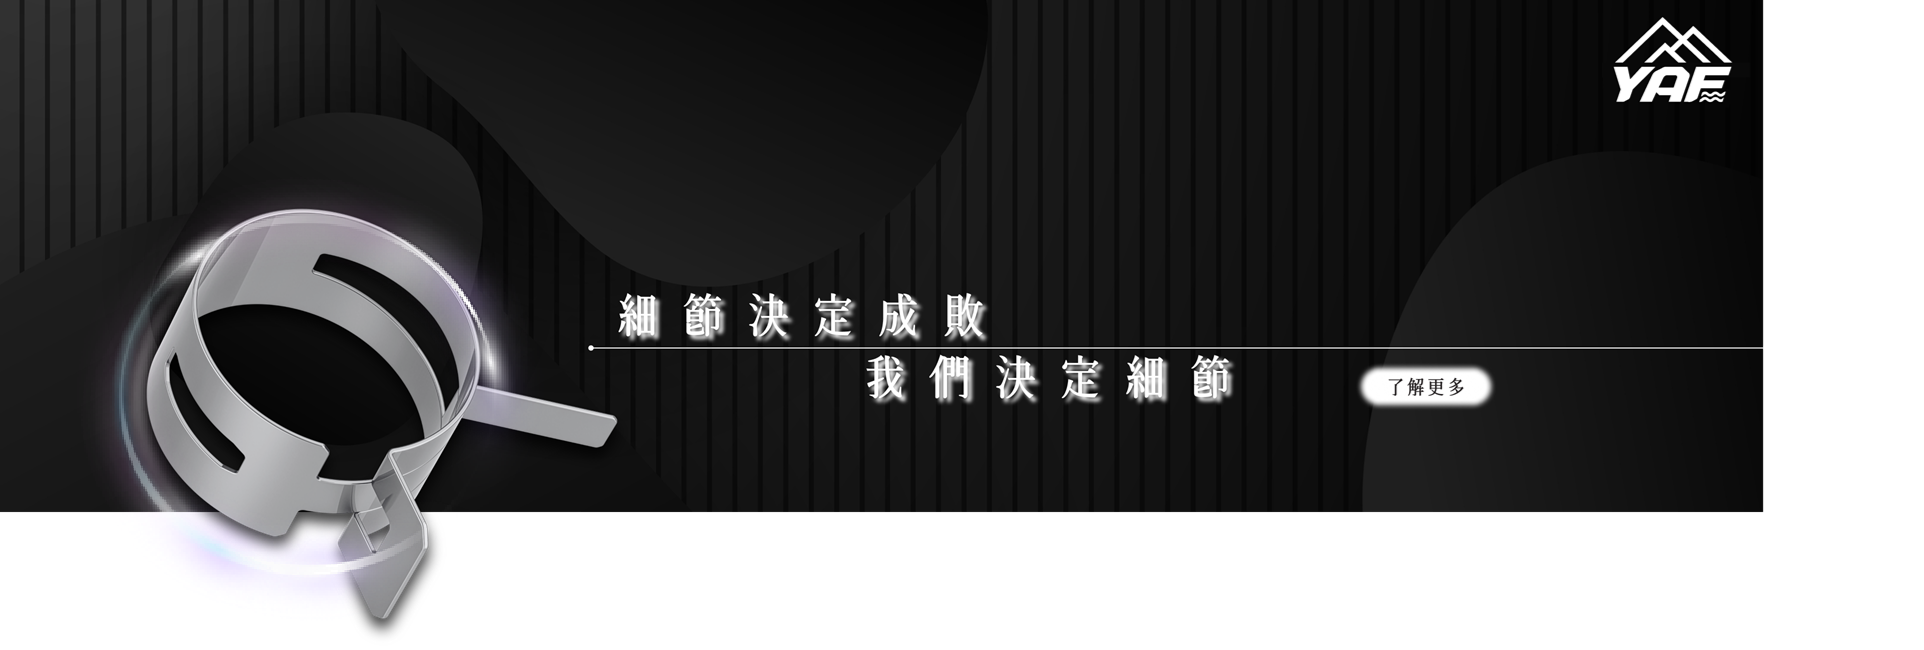
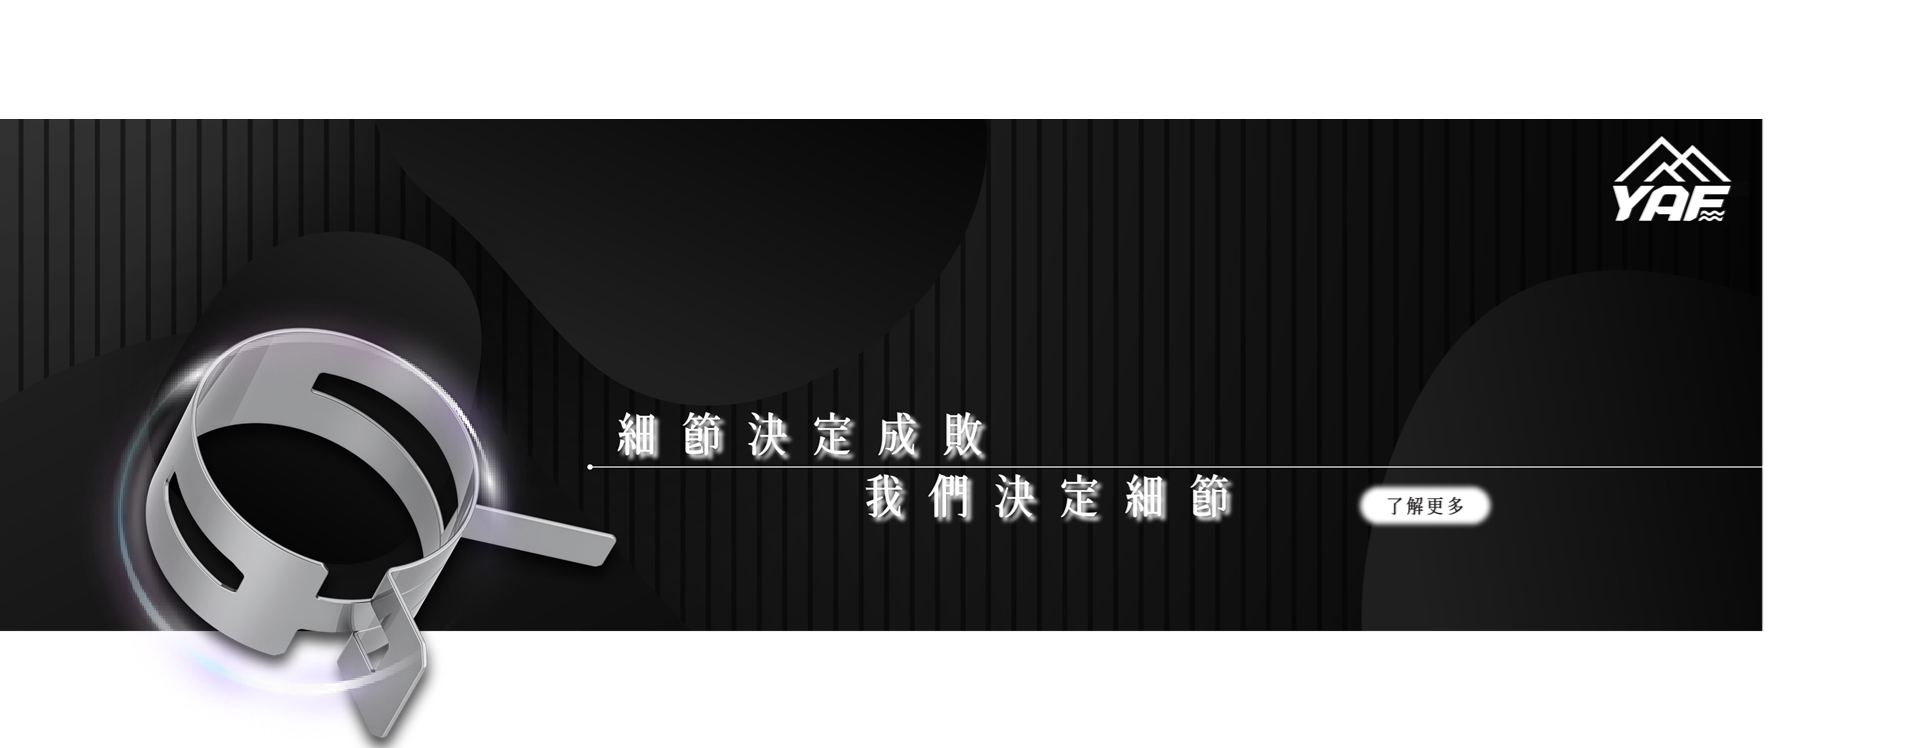
首頁動畫調整

diff --git a/pages/index.vue b/pages/index.vue
@@ -5,28 +5,27 @@
         :src="
           windowSize > 600
             ? '/image/' + lang + '/carousel1.png'
-            : '/image/' + lang + '/mobile-bg1.png'
+            : '/image/' + lang + '/mobile-carousel1.png'
         "
       ></v-carousel-item>
       <v-carousel-item
         :src="
           windowSize > 600
             ? '/image/' + lang + '/carousel2.png'
-            : '/image/' + lang + '/mobile-bg2.png'
+            : '/image/' + lang + '/mobile-carousel2.png'
         "
       ></v-carousel-item>
       <v-carousel-item
         :src="
           windowSize > 600
             ? '/image/' + lang + '/carousel3.png'
-            : '/image/' + lang + '/mobile-bg3.png'
+            : '/image/' + lang + '/mobile-carousel3.png'
         "
       ></v-carousel-item>
     </v-carousel>
     <v-img
       :src="'/image/' + lang + '/bg4.png'"
       width="100%"
-      :height="size2"
       contain
       position="center left"
       class="d-none d-sm-block"
@@ -117,7 +116,7 @@
               style="border-color: #ba9545"
             />
             <div class="sub-title">
-              {{ $t(service.desc1) }}<br />{{ $t(service.desc2) }}
+              {{ $t(service.desc1) }}<br/>{{ $t(service.desc2) }}
             </div>
           </div>
         </div>
@@ -171,25 +170,32 @@
       class="d-none d-sm-block"
       style="margin-bottom: 200px"
     />
-    <v-img
-      :src="'/image/' + lang + '/bg6.png'"
-      width="100%"
-      :height="size3"
-      class="d-none d-sm-block"
-    />
-    <v-img src="/image/mobile-bg6.png" width="100%" class="d-sm-none d-block" />
+    <div class="fill-width position-relative hover d-none d-sm-block">
+      <v-img
+        :src="'/image/' + lang + '/bg6.png'"
+        width="100%"
+        height="100%"
+      />
+      <v-img
+        :src="'/image/' + lang + '/hover-bg6.png'"
+        width="100%"
+        height="100%"
+        class="hover-img"
+      />
+    </div>
+    <v-img src="/image/mobile-bg6.png" width="100%" class="d-sm-none d-block"/>
   </div>
 </template>
 
 <script lang="ts">
-import { Component, Vue } from 'vue-property-decorator';
+import {Component, Vue} from 'vue-property-decorator';
 import {
   EXTRA_SIZE,
   LARGE_SIZE,
   MEDIUM_SIZE,
   SMALL_SIZE,
 } from '../utils/themes';
-import { Product, Service, products, services } from '../dummy';
+import {Product, Service, products, services} from '../dummy';
 
 @Component({
   name: 'home',
@@ -203,7 +209,6 @@ import { Product, Service, products, services } from '../dummy';
 })
 export default class home extends Vue {
   size1: number = 820;
-  size2: number = 750;
   size3: number = 1925;
   products: Array<Product> = products;
   services: Array<Service> = services;
@@ -216,32 +221,27 @@ export default class home extends Vue {
   handleResize() {
     if (window.innerWidth >= EXTRA_SIZE) {
       this.size1 = 820;
-      this.size2 = 750;
       this.size3 = 1925;
     } else if (
       window.innerWidth < EXTRA_SIZE &&
       window.innerWidth >= LARGE_SIZE
     ) {
       this.size1 = 720;
-      this.size2 = 750;
       this.size3 = 1620;
     } else if (
       window.innerWidth < LARGE_SIZE &&
       window.innerWidth >= MEDIUM_SIZE
     ) {
       this.size1 = 520;
-      this.size2 = 750;
       this.size3 = 1280;
     } else if (
       window.innerWidth < MEDIUM_SIZE &&
       window.innerWidth >= SMALL_SIZE
     ) {
       this.size1 = 460;
-      this.size2 = 750;
       this.size3 = 820;
     } else {
       this.size1 = 460;
-      this.size2 = 750;
       this.size3 = 820;
     }
     this.windowSize = window.innerWidth;
@@ -402,5 +402,19 @@ p {
 
 .app-bar ::v-deep .v-toolbar__content {
   background: linear-gradient(180deg, #000 0, #000 60%, #0000 100%);
+}
+
+.hover-img{
+  position: absolute;
+  top: 0;
+  left: 0;
+  opacity: 0;
+  transition: all 0.5s ease-in-out;
+}
+
+.hover:hover {
+  .hover-img {
+    opacity: 1;
+  }
 }
 </style>

diff --git a/layouts/default-layout.vue b/layouts/default-layout.vue
@@ -1,6 +1,6 @@
 <template>
   <v-app>
-    <v-app-bar app color="header" light :height="windowSize >= 960 ? 250 : 100">
+    <v-app-bar app color="header" light :height="windowSize >= 960 ? windowSize >= 1260 ? 250: 200 : 100">
       <v-container
         fluid
         class="d-flex align-self-end pa-0 align-end fill-height flex-nowrap"
@@ -264,10 +264,10 @@ header {
 
   &:hover {
     background-color: #d8ae5e;
-    color: white;
+    color: white !important;
 
     & > a {
-      color: white;
+      color: white !important;
     }
   }
 
